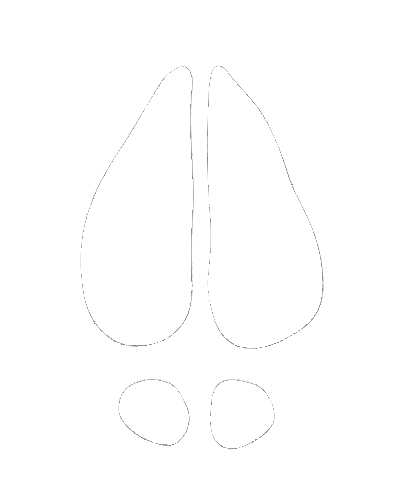
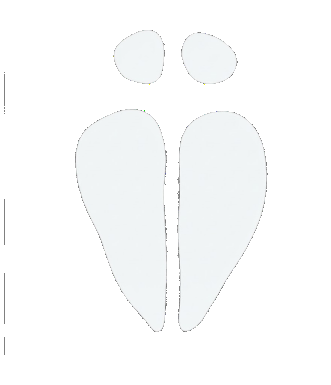
Animate loader hoof trail walking clockwise like the reference.

diff --git a/src/components/PageLoader.css b/src/components/PageLoader.css
@@ -20,8 +20,8 @@
 
 .page-loader__stage {
   position: relative;
-  width: clamp(168px, 22vw, 240px);
-  height: clamp(168px, 22vw, 240px);
+  width: clamp(180px, 24vw, 260px);
+  height: clamp(180px, 24vw, 260px);
   display: flex;
   align-items: center;
   justify-content: center;
@@ -32,22 +32,26 @@
   inset: 0;
 }
 
+/*
+  Trail of ~2–3 prints walks clockwise (matches ref).
+  Asset: toes point down, dewclaws up → after place, rotate(-90deg)
+  so toes follow the circle tangent.
+*/
 .page-loader__hoof {
-  --count: 10;
-  --radius: clamp(62px, 8vw, 88px);
+  --count: 12;
+  --radius: clamp(68px, 9vw, 96px);
   position: absolute;
   left: 50%;
   top: 50%;
-  width: clamp(22px, 2.8vw, 32px);
+  width: clamp(28px, 3.4vw, 40px);
   height: auto;
-  /* Tip points outward; slight clockwise lean like the ref */
   transform: rotate(calc(var(--i) * 360deg / var(--count)))
     translateY(calc(-1 * var(--radius)))
-    rotate(18deg);
+    rotate(-90deg);
   transform-origin: center center;
-  opacity: 0.18;
-  animation: page-loader-stomp 1.1s linear infinite;
-  animation-delay: calc(var(--i) * -0.11s);
+  opacity: 0;
+  animation: page-loader-walk 1.8s linear infinite;
+  animation-delay: calc(var(--i) * (1.8s / var(--count)) * -1);
   pointer-events: none;
   user-select: none;
 }
@@ -64,37 +68,43 @@
   line-height: 1;
 }
 
-/* Bright stamp travels around the ring — continuous circular stomp */
-@keyframes page-loader-stomp {
-  0%,
-  100% {
-    opacity: 0.14;
+/* Short visible trail — stomp in, fade out, rest of ring empty */
+@keyframes page-loader-walk {
+  0% {
+    opacity: 0;
     transform: rotate(calc(var(--i) * 360deg / var(--count)))
       translateY(calc(-1 * var(--radius)))
-      rotate(18deg)
-      scale(0.9);
+      rotate(-90deg)
+      scale(0.75);
   }
-  8% {
+  2% {
     opacity: 1;
     transform: rotate(calc(var(--i) * 360deg / var(--count)))
       translateY(calc(-1 * var(--radius)))
-      rotate(18deg)
+      rotate(-90deg)
       scale(1.08);
   }
-  22% {
-    opacity: 0.45;
+  8% {
+    opacity: 0.85;
     transform: rotate(calc(var(--i) * 360deg / var(--count)))
       translateY(calc(-1 * var(--radius)))
-      rotate(18deg)
-      scale(0.96);
+      rotate(-90deg)
+      scale(1);
   }
-  40%,
-  100% {
-    opacity: 0.16;
+  16% {
+    opacity: 0.35;
     transform: rotate(calc(var(--i) * 360deg / var(--count)))
       translateY(calc(-1 * var(--radius)))
-      rotate(18deg)
-      scale(0.9);
+      rotate(-90deg)
+      scale(0.92);
+  }
+  24%,
+  100% {
+    opacity: 0;
+    transform: rotate(calc(var(--i) * 360deg / var(--count)))
+      translateY(calc(-1 * var(--radius)))
+      rotate(-90deg)
+      scale(0.75);
   }
 }
 
@@ -102,6 +112,12 @@
   .page-loader__hoof {
     animation: none;
     opacity: 0.55;
+  }
+
+  .page-loader__hoof:nth-child(1),
+  .page-loader__hoof:nth-child(2),
+  .page-loader__hoof:nth-child(3) {
+    opacity: 0.9;
   }
 }
 

diff --git a/src/components/PageLoader.jsx b/src/components/PageLoader.jsx
@@ -6,7 +6,7 @@ import heroMask from "../assets/images/hero-mask.svg";
 import hoofMark from "../assets/images/hoof-stamp.png";
 import "./PageLoader.css";
 
-const HOOF_COUNT = 10;
+const HOOF_COUNT = 12;
 const MIN_MS = 220;
 const imageCache = new Map();
 
@@ -222,8 +222,8 @@ export default function PageLoader({ onDone }) {
               src={hoofMark}
               alt=""
               style={{ "--i": i }}
-              width={32}
-              height={37}
+              width={40}
+              height={48}
               draggable={false}
             />
           ))}
